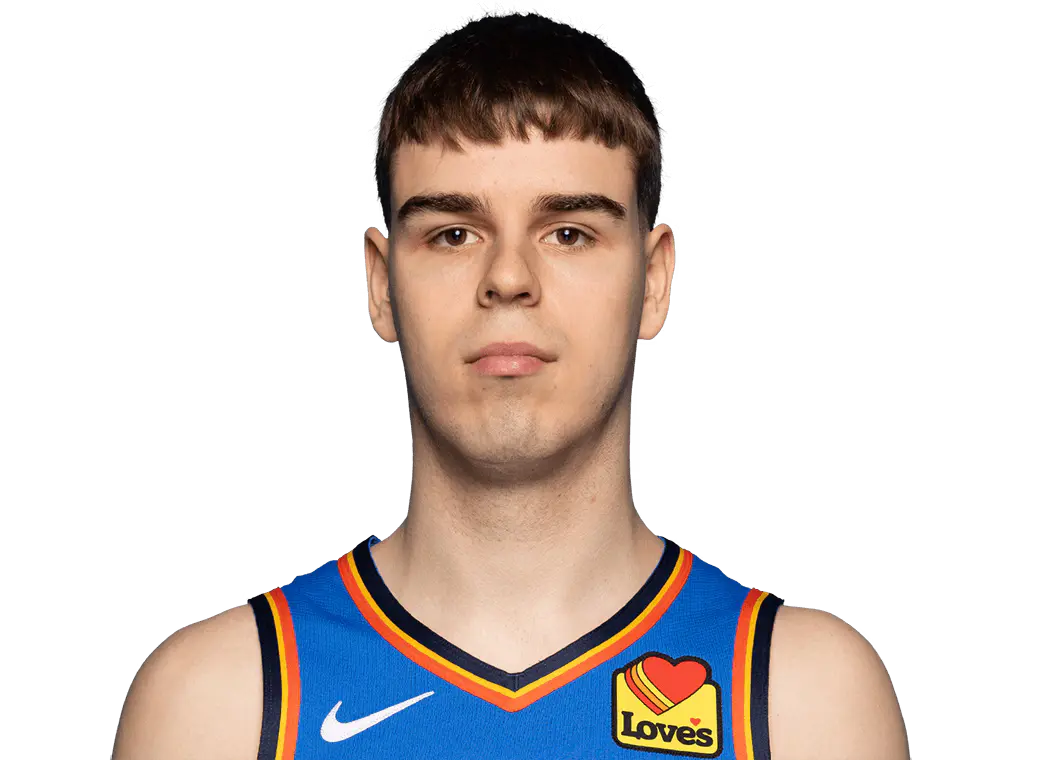
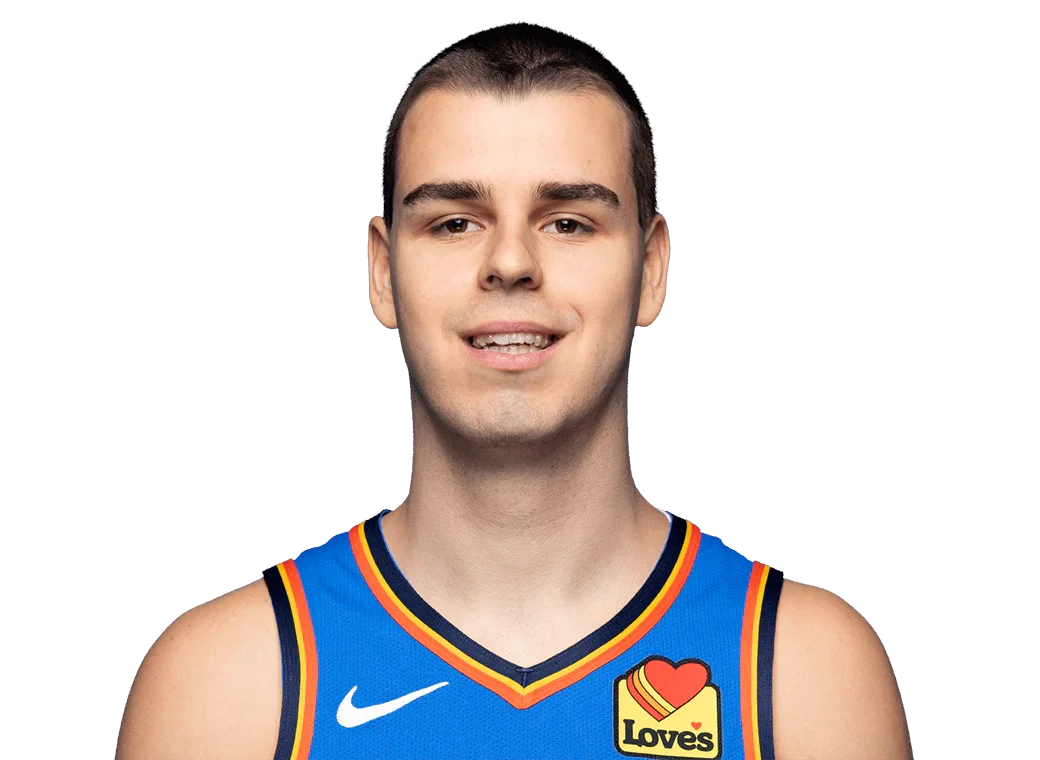
Added new media day photos and a couple new players

diff --git a/index.js b/index.js
@@ -31,8 +31,11 @@ const currentThunderPlayers = [
     "Jared McCain", // 1028027372
     "Otega Oweh", // 1091466034
     "Josh Dix", // 1091904395
-    "Cristoph Tilly", //
+    "Cristoph Tilly", // 1097033907
     "Brooks Barnhizer", // 1057392335
+    "Zhaire Smith", // 425
+    "Andrew Holifield", // 1098474559
+    "Anthony Pritchard", // 1099946149
 ];
 
 const starredTeams = ["Spurs", "76ers", "Hawks", "Pistons"];
@@ -263,6 +266,10 @@ app.get("/games", getThunderSchedule, async (req, res) => {
 app.listen(PORT, () => {
     console.log(`Server is running on port ${PORT}`);
 });
+
+
+
+
 
 
 

diff --git a/public/styles/main.css b/public/styles/main.css
@@ -126,19 +126,6 @@ body {
 
     display: flex;
     justify-content: center;
-    /* background: radial-gradient(circle at 20% 30%, rgba(0, 33, 82, 0.35), transparent 65%), radial-gradient(circle at 80% 70%, rgba(0, 63, 127, 0.969), transparent 65%), #000; */
-    background-size: 150% 150%;
-    animation: backgroundMove 20s ease-in-out infinite alternate;
-}
-
-@keyframes backgroundMove {
-    0% {
-        background-position: 0% 0%;
-    }
-
-    100% {
-        background-position: 100% 100%;
-    }
 }
 
 #players-body,
